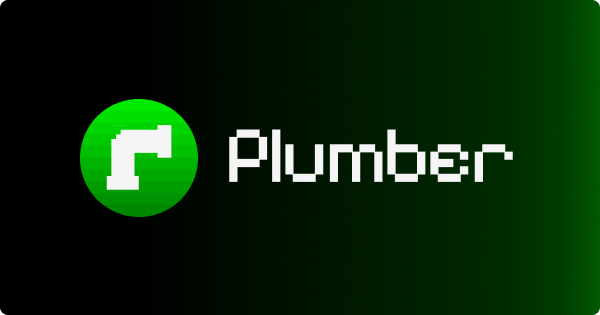
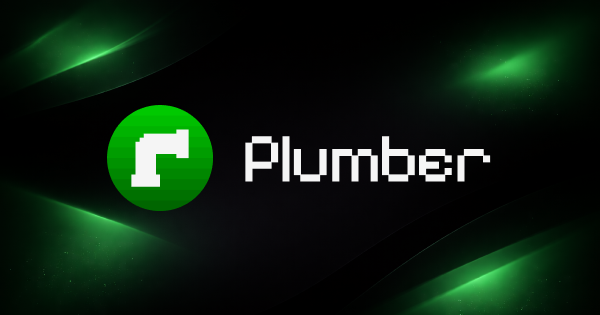
chore: update social media card image

diff --git a/README.md b/README.md
@@ -138,7 +138,7 @@ The website features:
 ├── public/                 # Static assets
 │   ├── favicons/
 │   ├── robots.txt
-│   └── social-media-card.svg
+│   └── social-media-card.png
 ├── scripts/                # Utility scripts
 │   ├── config-i18n.js     # i18n configuration wizard
 │   ├── generate-favicon-ico.js